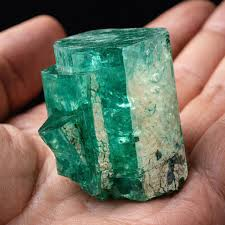
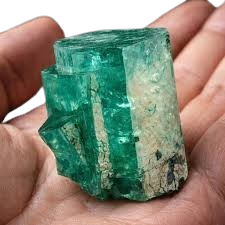
ok

Changed region(s): [[0.0, 0.0, 0.84, 0.1867], [0.0, 0.3733, 0.2178, 0.56], [0.9022, 0.0, 1.0, 0.0311]]

diff --git a/Front/src/app/page.tsx b/Front/src/app/page.tsx
@@ -19,7 +19,7 @@ export default async function Home({ params }: HomePageProps) {
       tagEs: 'La Capital Mundial de las Esmeraldas',
       desc: 'Legendary for their deep "warm" green. The Muzo mines produce the most coveted gems on Earth, characterized by their incomparable saturation.',
       descEs: 'Legendarias por su verde profundo y "cálido". Las minas de Muzo producen las gemas más codiciadas de la Tierra, caracterizadas por su saturación incomparable.',
-      image: '/assets/img/mines/muzo-bg.jpg', // Reemplazar con video/foto real
+      image: '/assets/img/Muzo1.png', // Reemplazar con video/foto real
     },
     {
       id: 'chivor',
